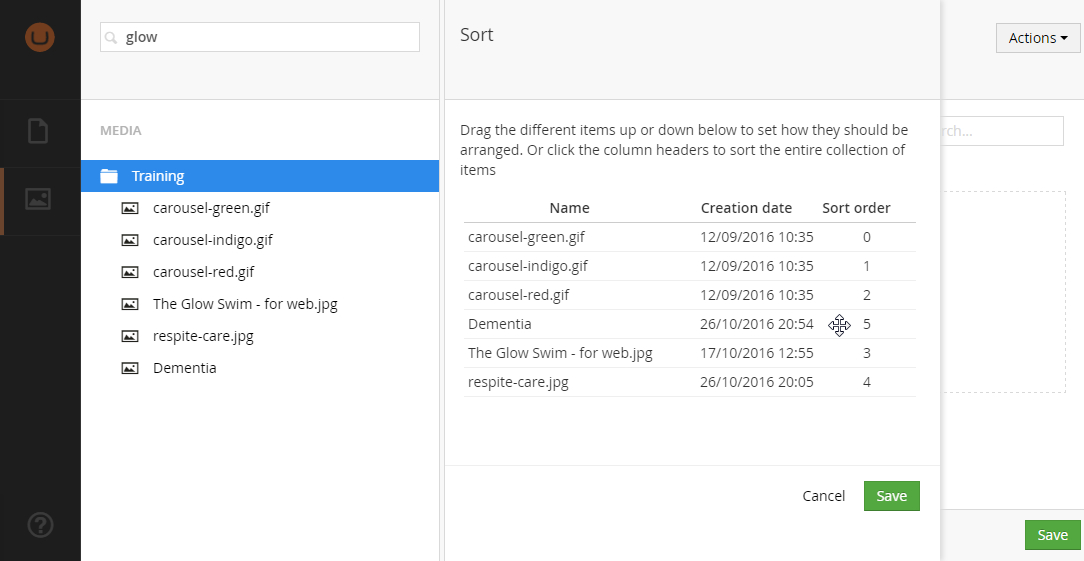
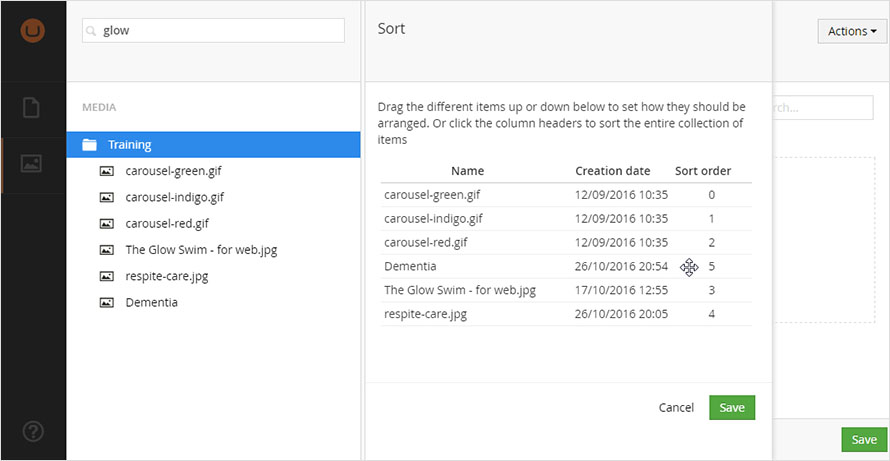
Added Media Management section

diff --git a/docs/media-management/index.md b/docs/media-management/index.md
@@ -1,14 +1,106 @@
-# Managing Assets
+# Managing Media
 
-!!! warning
-    TODO
+This section covers basic tasks to organise your media assets, such as uploading, moving, copying, removing and sorting images and files.
 
-## XXX
+## Finding Media 
 
-xx
+Media management in Umbraco is all done in the Media section; click on the `Media` button, below `Content` in the left-hand navigation bar.
 
-![title](./images/image.jpg)
+You will initially see your site media content tree (collapsed in the figure below) and a Media panel on the right of the screen.
 
-## More..
+The media panel comprises, from the top down:
 
-xx
+* A grid icon: click this to alternate between grid and list view of your media files in the currently selected folder
+* A search box: start typing the name of a picture or file and a list of matches will appear in real time.
+* An upload section: drag and drop files or images into the area surrounded by the dashed line, or click on the `or click here to choose files` link to open the standard file upload dialog
+* A list of folders and media files in the currently selected folder, displayed in grid or list view, depending on your selection (see above)
+
+![media](./media-management/media.jpg)
+
+If you hover over the top-level folder of your site, you will see an arrow to the left and an ellipsis to the right. Click on the arrow to open a folder. 
+
+![media](./media-management/media-files.jpg)
+
+As you can see, there is another search box above the tree. Start typing the name of a picture or file and a list of matches will appear in real time.  
+
+![media](./media-management/media-search.jpg)
+
+!!! Note
+    If you have migrated from MyLife version 3, then your media folder structure will exactly replicate the structure that you had in Ektron CMS.
+
+## View Media Properties
+
+You can see the properties for any media file by clicking on that file and then clicking on the `Properties` tab in the Media panel to the right of the screen.
+
+The properties panel includes information about the filename, file size and image dimensions, etc. Probably the most useful item though is the link. You can click this to open the image or file, or copy the url to use elsewhere. However, the media picker tool in Umbraco is so good that you generally won't need to inspect urls.
+
+![media](./media-management/media-link-properties.jpg)
+
+## Add an Image
+
+* As with content, the first step is to hover above the folder that you want to upload an image to, so that the ellipsis icon appears to the right
+* Click the ellipsis icon to open the `Create` panel
+* Click the `Image` item
+
+![media](./media-management/media-create.jpg)
+
+* The media panel will appear on the right, with the `Image` tab open
+* Type in a meaningful name for the picture and then upload your image by clicking the `Click to upload` area inside the dashed border
+
+![media](./media-management/media-upload-image.jpg)
+
+* Once you have selected a file using the standard file dialog and uploaded it, click on the `Save` button to store the picture in the CMS
+
+![media](./media-management/media-uploaded-image.jpg)
+
+
+## Add a Document (File)
+
+* As above, the first step is to hover above the folder that you want to upload a document to, so that the ellipsis icon appears to the right
+* Click the ellipsis icon to open the `Create` panel
+* Click the `File` item
+
+![media](./media-management/media-create-file.jpg)
+
+
+* The media panel will appear on the right, with the `File` tab open
+* Type in a meaningful name for the document and then upload your file by clicking the `Choose file` button
+* Once you have selected a file using the standard file dialog and uploaded it, click on the `Save` button to store it in the CMS
+
+![media](./media-management/media-uploaded-file.jpg)
+
+## The Actions List
+
+There are two ways to access the media actions list:
+
+* Hover over a file or folder, click the ellipsis to display the `Create` panel and then click the `Do something else` button at the bottom of that panel
+
+![media](./media-management/media-actions.jpg)
+
+* Or click on a file or folder and then click the actions button to the top right of the screen to open the same list
+
+![media](./media-management/media-sort.jpg)
+
+## Move Media Files
+
+* To move a folder or individual media file, open the [actions list](#the-actions-list) and select the `Move` action
+* This will open a `Move` panel on the right of the screen
+* Navigate the folder tree and select the folder into which you wish to move the imag eor file
+* Click the `Move` button
+* You will be presented with a confirm message that you need to accept to complete the move
+
+![media](./media-management/media-move.jpg)
+
+## Delete Media Files
+
+* To delete a folder or individual media file, open the [actions list](#the-actions-list) and select the `Delete` action
+* You will be presented with a confirm message that you need to accept to complete the deletion
+
+## Sort Media Files
+
+* To sort the files within a folder, open the [actions list](#the-actions-list) from that folder and select the `Sort` action
+* This will open a `Sort` panel on the right of the screen; files are listed with a sequence number
+* You can reposition the files in the order that you want by clicking and dragging them
+* Click `Save` when you are done
+
+![media](./media-management/media-sorting.jpg)
